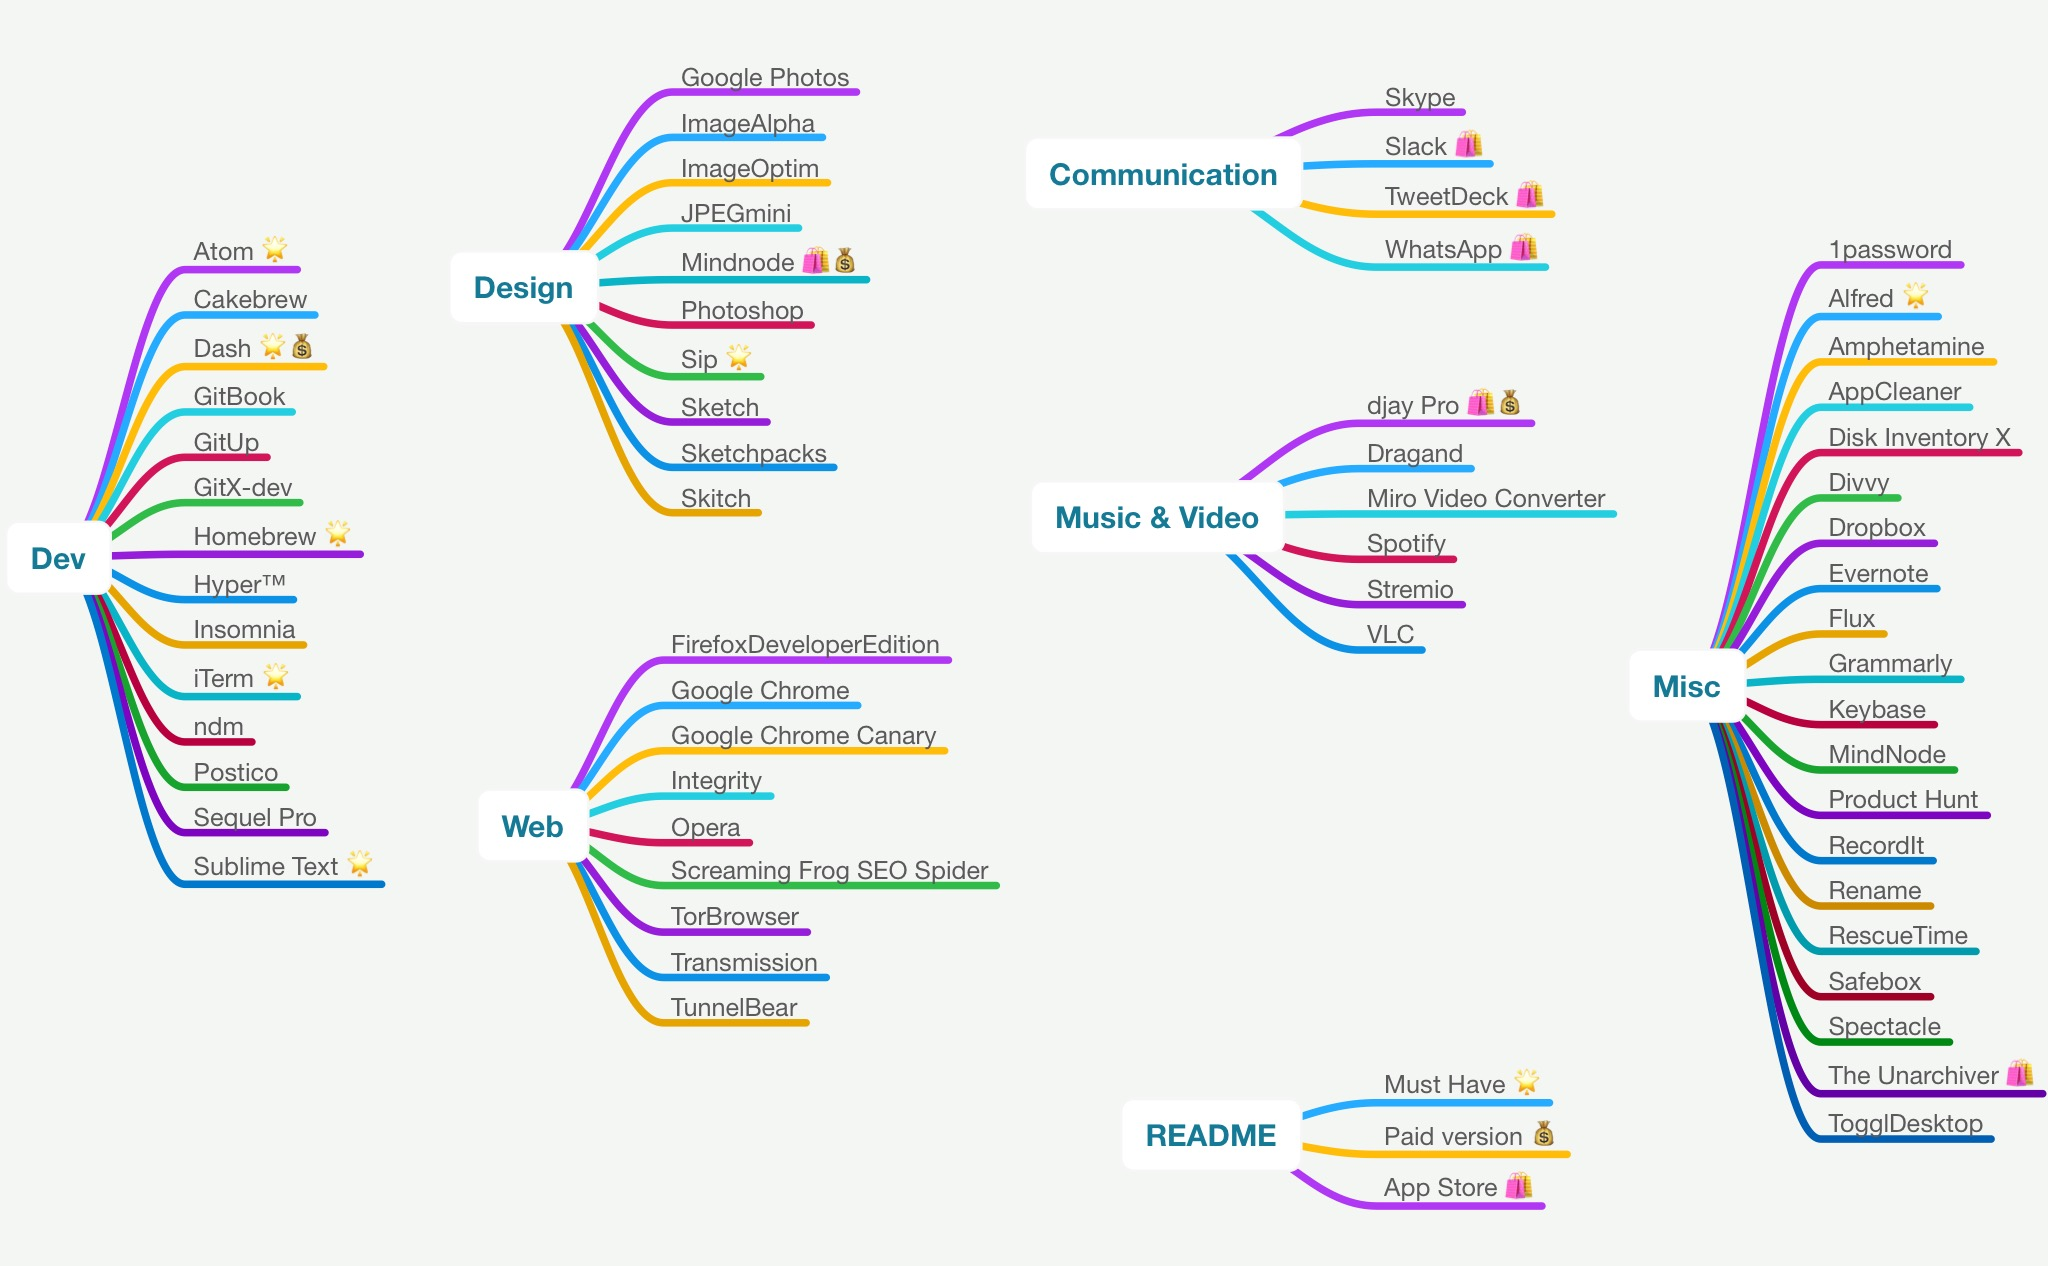
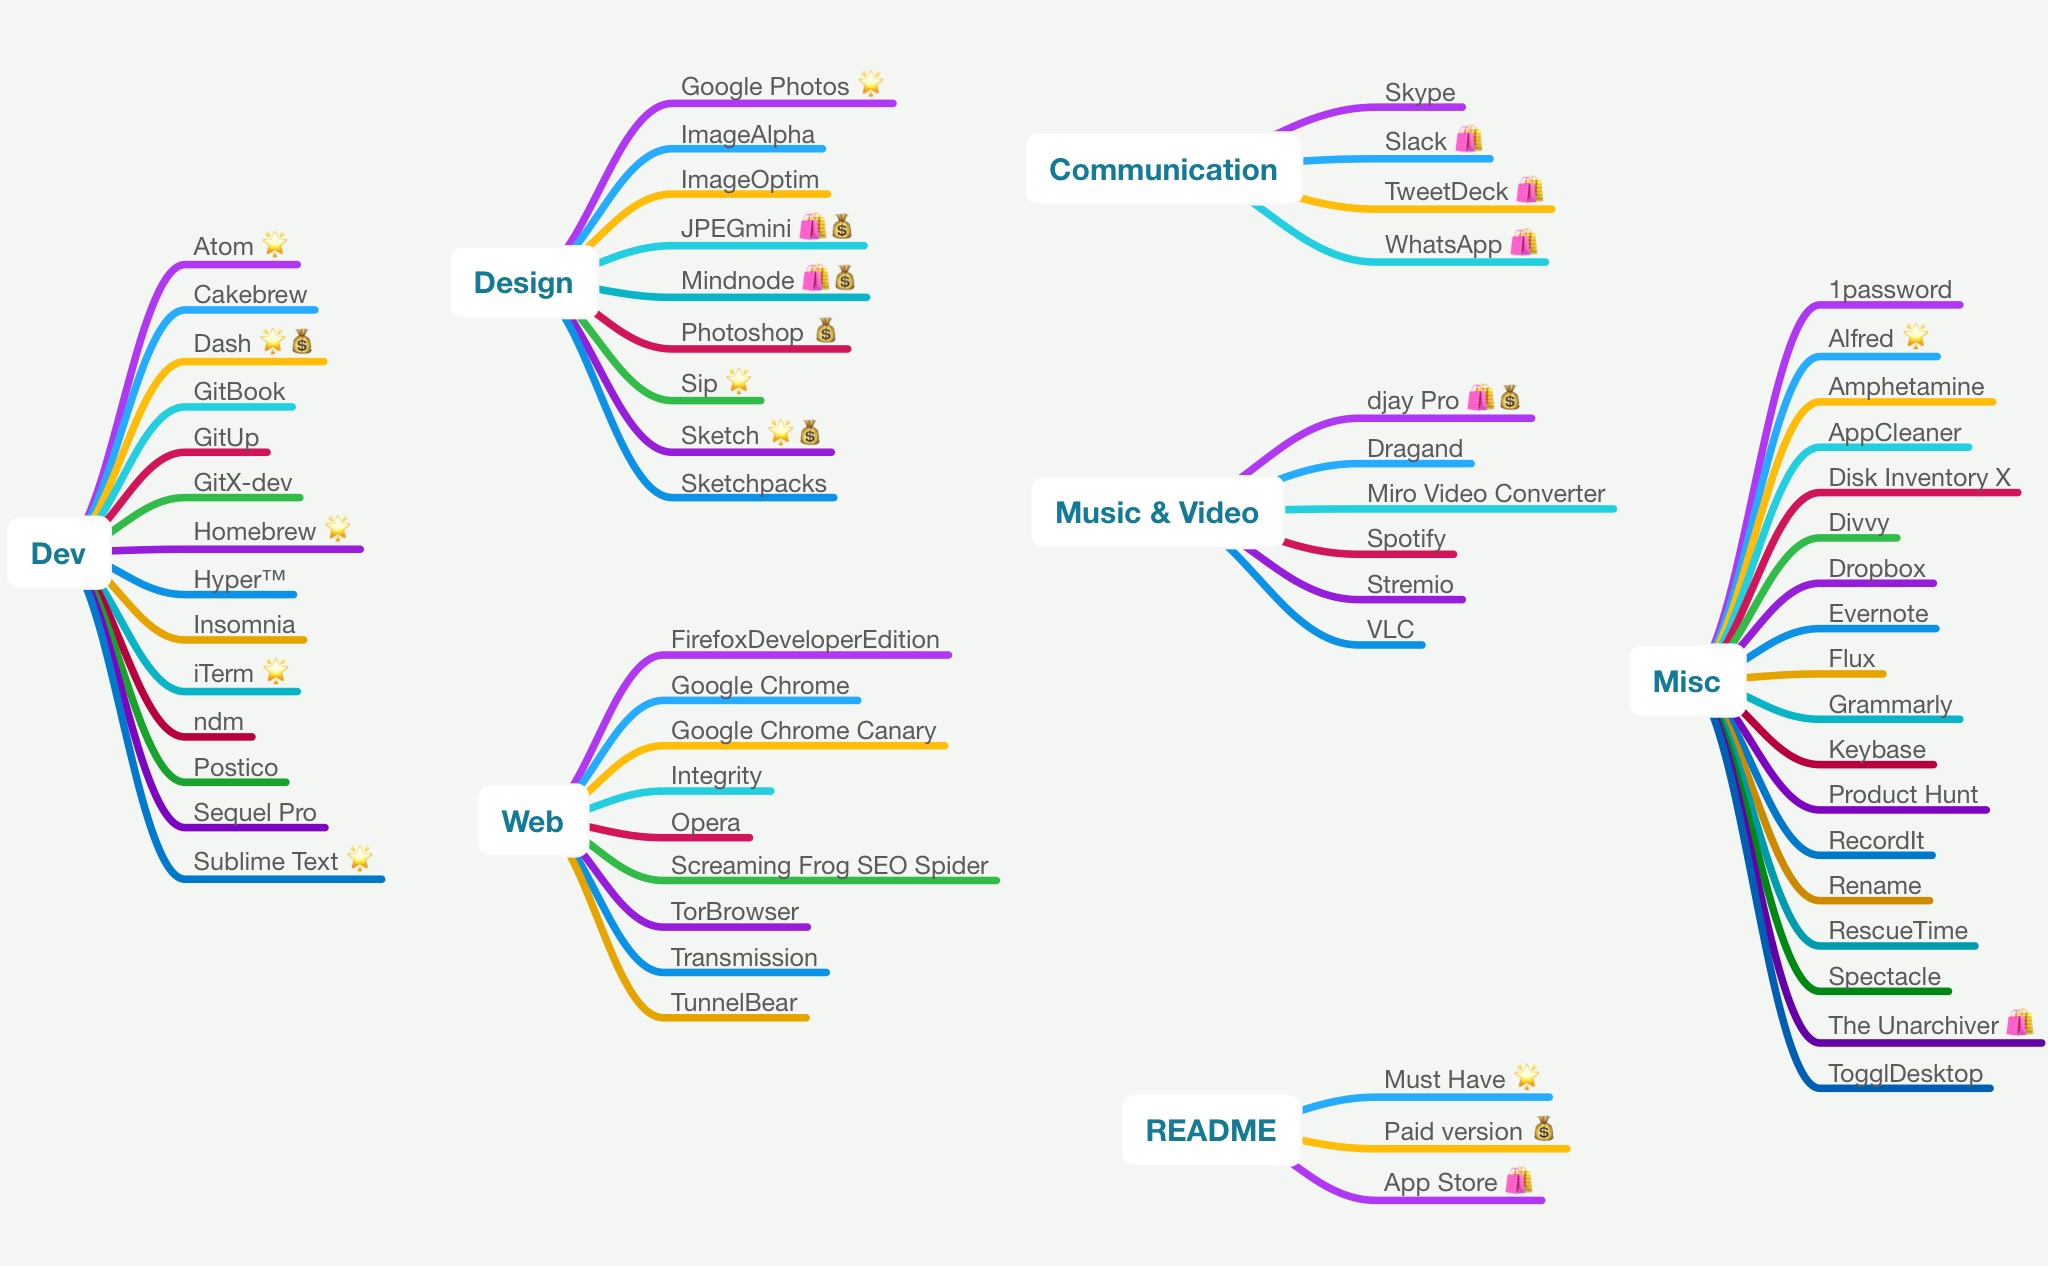
:crystal_ball:

diff --git a/README.md b/README.md
@@ -26,16 +26,15 @@ Here is the list of all the apps I use to be efficients as a front-end developer
 
 ## Design
 
-- [Google Photos](https://photos.google.com/apps)
-- ImageAlpha
-- ImageOptim
-- JPEGmini
-- [MindNode 🛍💰](https://itunes.apple.com/fr/app/mindnode-2-delightful-mind-mapping/id992076693?l=en&mt=12)
-- [Photoshop 💰]()
-- [Sip 🌟](https://sipapp.io/) The best color picker for Mac for collecting, organizing & sharing palettes.
-- [Sketch 💰]()
-- [Sketchpacks](https://www.sketchpacks.com/) Browse, manage, and auto-update your Sketch plugins from the menu bar.
-- Skitch
+- __[Google Photos](https://photos.google.com/apps)__ – Free, unlimited storage for photos up to 16 megapixels and videos up to 1080p resolution.
+- __[ImageAlpha](https://pngmini.com/)__ – Reduces file sizes of 24-bit `PNG`.
+- __[ImageOptim](https://imageoptim.com/)__ – Excellent tool for publishing images on the web.
+- __[JPEGmini 🛍💰](https://itunes.apple.com/fr/app/jpegmini/id498944723?l=en&mt=12)__ – Reduce photo files size by up to 80% without compromising quality.
+- __[MindNode 🛍💰](https://itunes.apple.com/fr/app/mindnode-2-delightful-mind-mapping/id992076693?l=en&mt=12)__ – Delightful Mind Mapping for Mac, iPad & iPhone.
+- __[Photoshop 💰](http://www.photoshop.com/)__ – Raster graphics editor since 1988.
+- __[Sip 🌟](https://sipapp.io/)__ – The best color picker for Mac for collecting, organizing & sharing palettes.
+- __[Sketch 💰](https://www.sketchapp.com/)__ – Professional digital design for Mac.
+- __[Sketchpacks](https://www.sketchpacks.com/)__ – Browse, manage, and auto-update your Sketch plugins from the menu bar.
 
 ## Web
 
@@ -83,7 +82,6 @@ Here is the list of all the apps I use to be efficients as a front-end developer
 - RecordIt
 - Rename
 - RescueTime
-- Safebox
 - [Spectacle](https://github.com/eczarny/spectacle) Organize your windows without using a mouse.
 - [The Unarchiver 🛍](https://itunes.apple.com/us/app/the-unarchiver/id425424353?mt=12)
 - TogglDesktop
